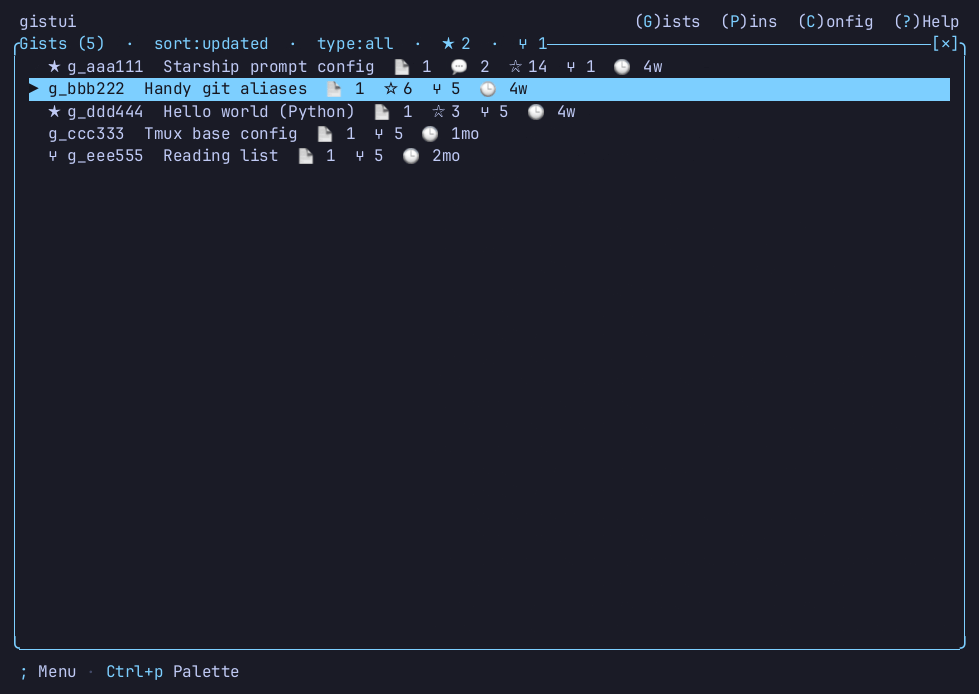
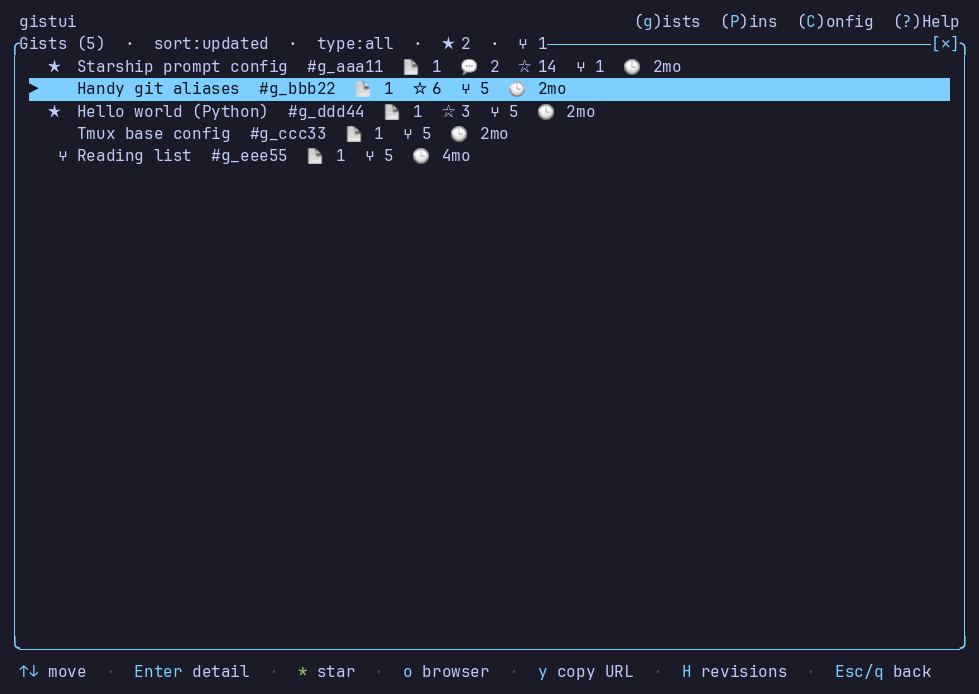
chore: release v0.18.0
Stamp the changelog and regenerate the demo GIF and still screenshots: the
recording still showed the 0.16.0 UI, two releases and 91 src/tui commits
behind the description-first gist rows, ellipsis truncation, footer hints,
enriched gist detail, and the Settings screen this cycle shipped.

Claude-Session: https://claude.ai/code/session_01GArs16W8wJNASpxsKEZWNt

diff --git a/CHANGELOG.md b/CHANGELOG.md
@@ -8,7 +8,7 @@ The format is based on [Keep a Changelog](https://keepachangelog.com/en/1.1.0/),
 and this project adheres to [Semantic Versioning](https://semver.org/spec/v2.0.0.html)
 (currently `0.x` while the keymap/feature surface is still evolving).
 
-## [Unreleased]
+## [0.18.0] — 2026-08-21
 
 - The main screen's two file lists can now be resized with the mouse: hold the left button on
   the divider between them and drag left/right, or double-click it to restore the default
@@ -213,6 +213,7 @@ and this project adheres to [Semantic Versioning](https://semver.org/spec/v2.0.0
 - Overwrite-confirm safety gate.
 
 [unreleased]: https://github.com/akunzai/gistui/compare/v0.17.1...HEAD
+[0.18.0]: https://github.com/akunzai/gistui/releases/tag/v0.18.0
 [0.17.1]: https://github.com/akunzai/gistui/releases/tag/v0.17.1
 [0.17.0]: https://github.com/akunzai/gistui/releases/tag/v0.17.0
 [0.16.0]: https://github.com/akunzai/gistui/releases/tag/v0.16.0
